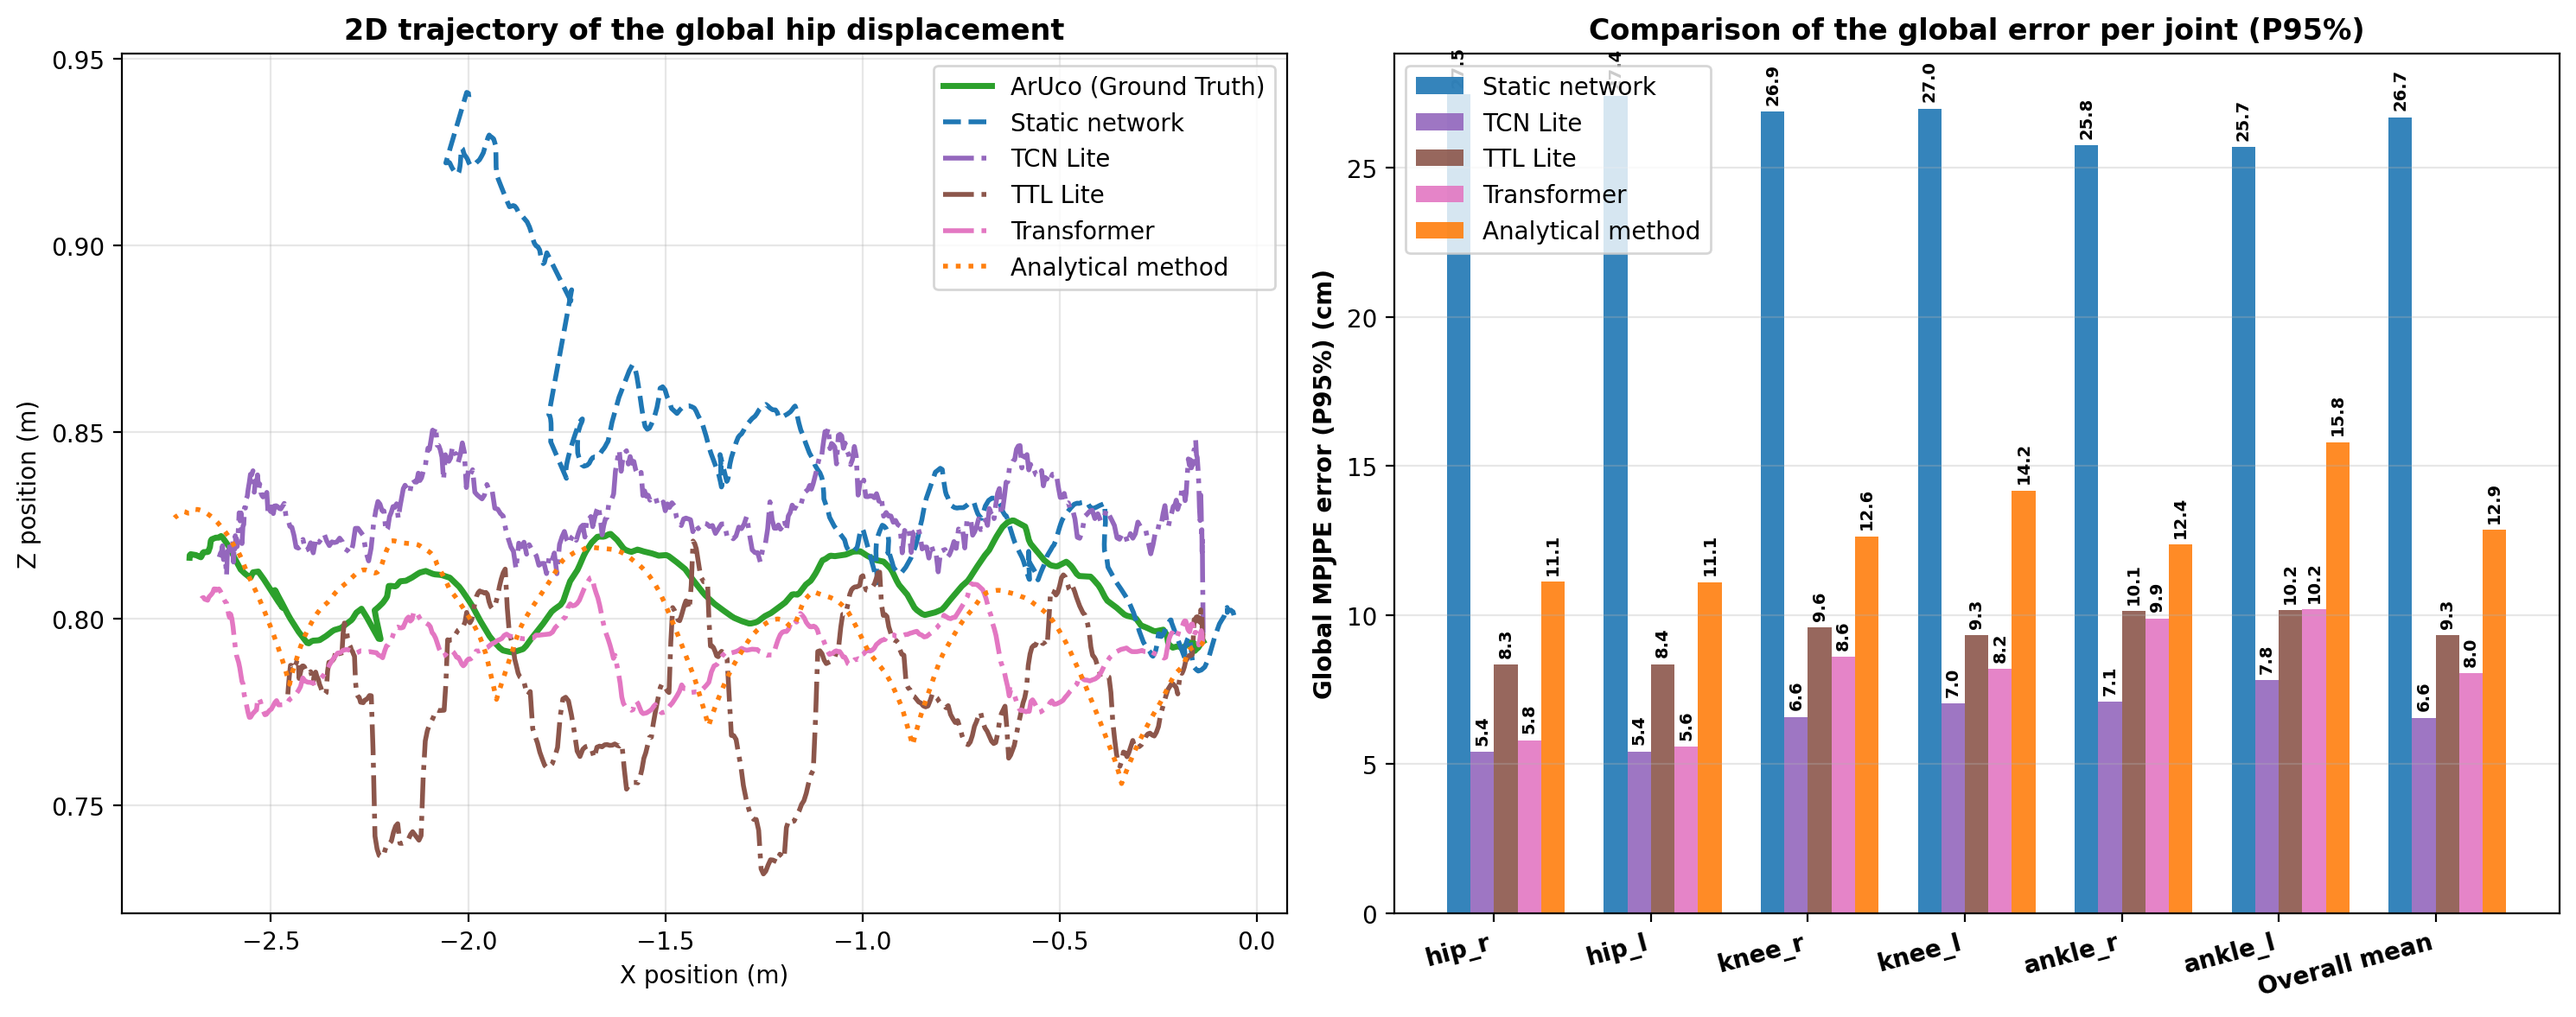
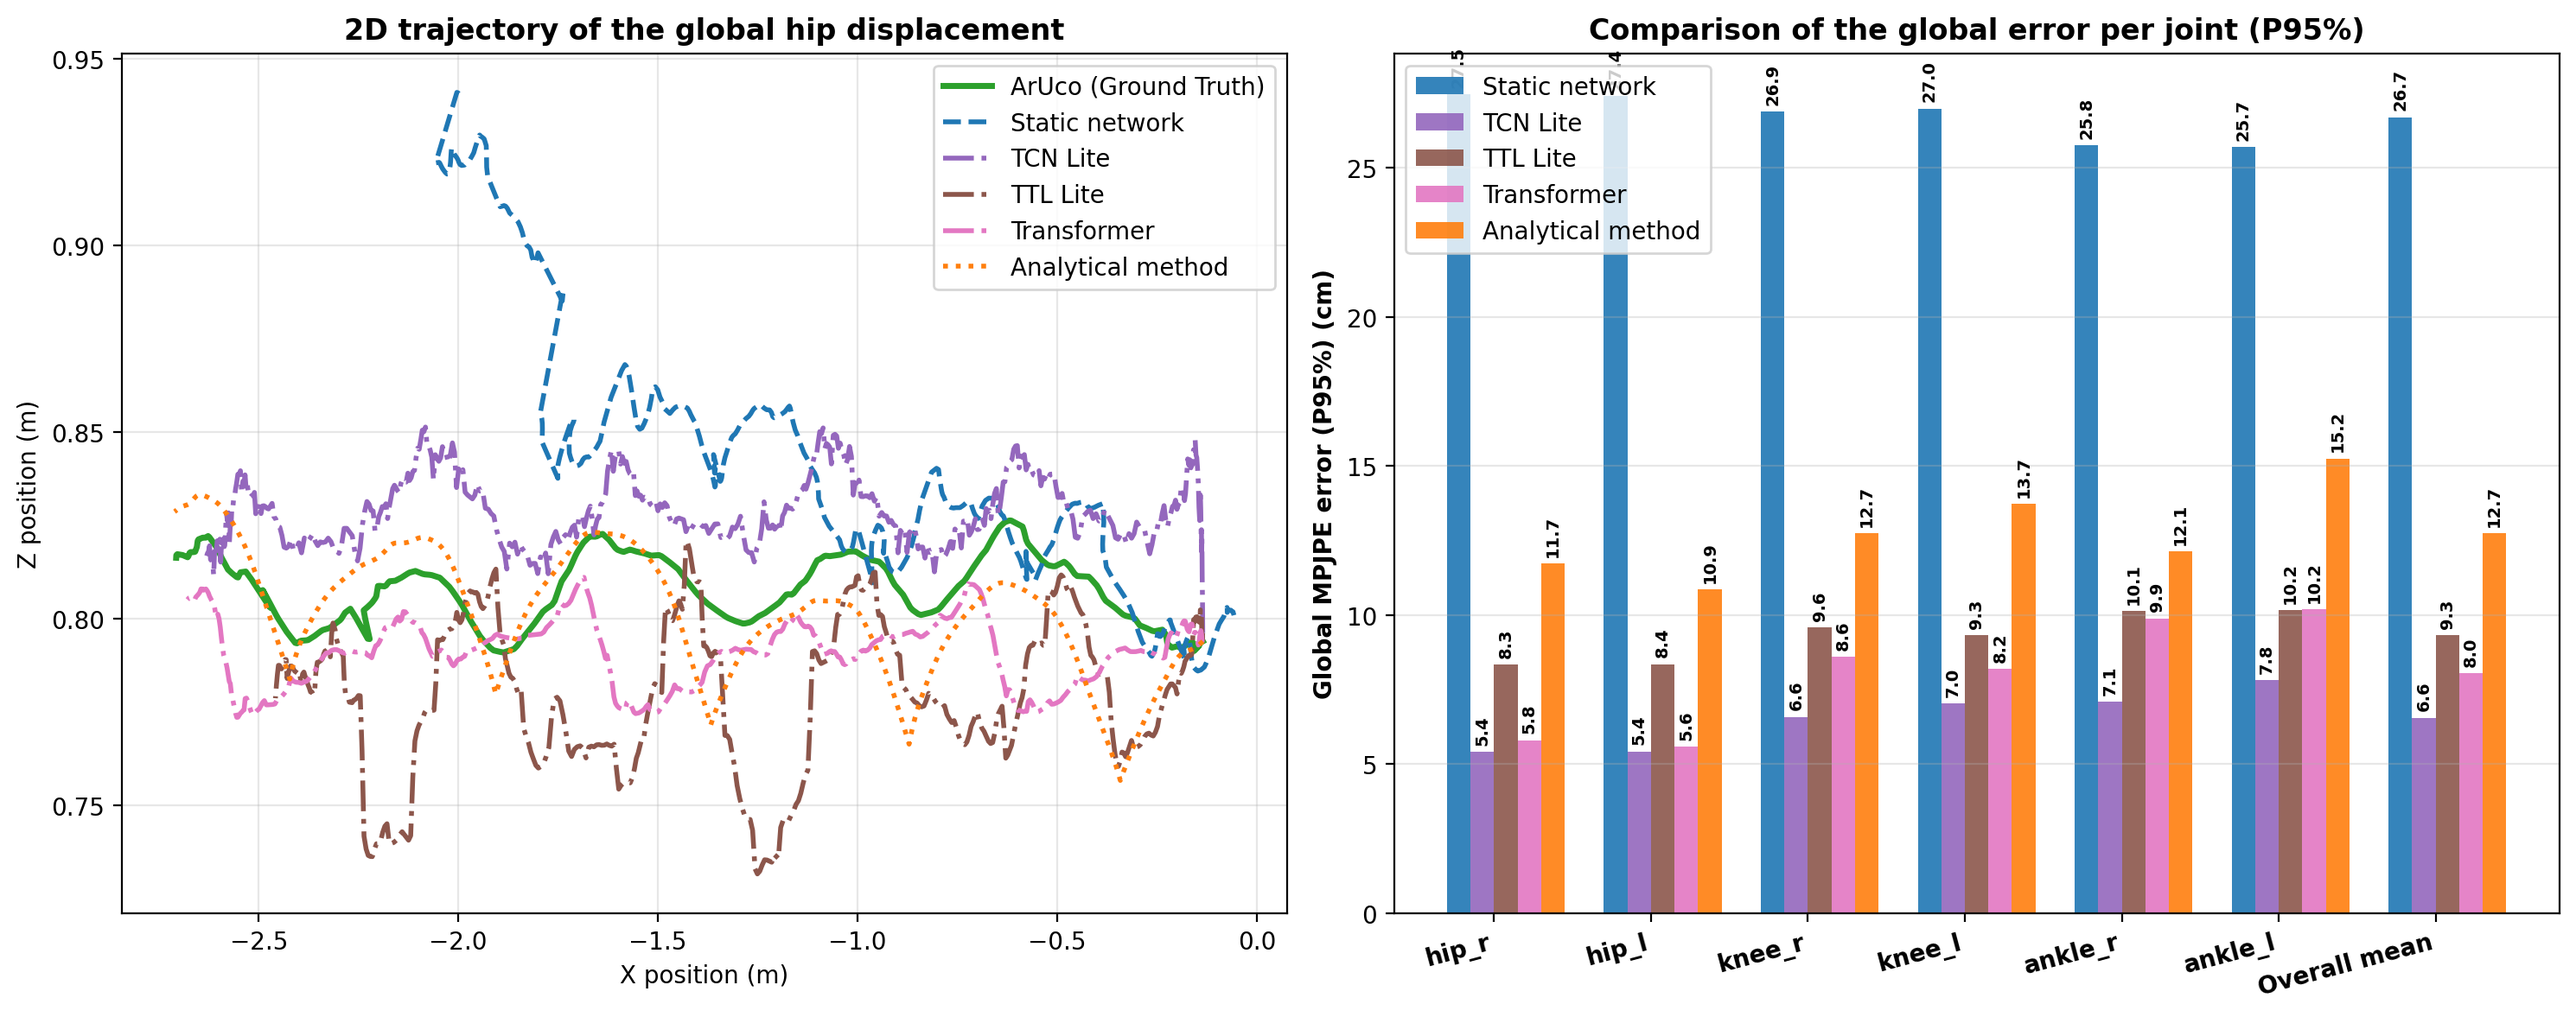
Use Slerp clip 0.5 (grid-search optimum) for the analytical pipeline
A full re-run of the 20,736-configuration grid in experiment_matrix.py
(training split) finds the optimum at the documented configuration except
slerp_clip_min = 0.5 (train 0.1780 m vs 0.1804 m with 0.3; val 0.1670 m,
test 0.1756 m). With slerp_clip_max = 1 - min this fixes the hip Slerp
weight at 0.5 (midpoint of both femurs).

- Set slerp_clip_min/max to 0.5/0.5 in process_all.py, experiment_matrix.py
  (DEFAULT_VALS), evaluate_full_neural_vs_analytical.py,
  generate_manuscript_figures.py and benchmark_timing.py.
- Analytical global MPJPE with the committed checkpoints: 0.1274 m
  (was 0.1286 m). Networks unchanged. New evaluation in results-v5.txt
  (RTX 5070); regenerated comparison GIF/PNG.
- Update docs and reproducibility reference values.

Claude-Session: https://claude.ai/code/session_01GRtPqPCdLHoxMrqgppvtVo

diff --git a/process_all.py b/process_all.py
@@ -354,8 +354,8 @@ def get_orientation(
     mcd_data,
     pca_percentile=5,
     madgwick_gain=0.01,
-    slerp_clip_min=0.3,
-    slerp_clip_max=0.7,
+    slerp_clip_min=0.5,
+    slerp_clip_max=0.5,
     calibration_samples=60,
     fusion_filter="madgwick",
 ) -> dict[str, np.ndarray]:
@@ -565,7 +565,7 @@ def get_orientation(
             # Velocity-based weighting: if rf is still, the weight tends to 0.
             weight = vel_rf / total_vel
 
-        # Clip the weight (0.3 to 0.7) so the hip is never fused 100% with a single femur, avoiding rigidity
+        # Clip the weight to [slerp_clip_min, slerp_clip_max]. The selected 0.5/0.5 (grid-search optimum) fixes it at 0.5: the pelvis is the Slerp midpoint of both femurs
         weight = np.clip(weight, slerp_clip_min, slerp_clip_max)
 
         slerp = Slerp([0, 1], R.concatenate([quats["rf"][i], quats["lf"][i]]))
@@ -643,8 +643,8 @@ def mcd_reconstruction(
     mcd_data: dict[str, np.ndarray],
     pca_percentile=5,
     madgwick_gain=0.01,
-    slerp_clip_min=0.3,
-    slerp_clip_max=0.7,
+    slerp_clip_min=0.5,
+    slerp_clip_max=0.5,
     calibration_samples=60,
     fusion_filter="madgwick",
     pivot_height_threshold=0.01,
@@ -1003,8 +1003,8 @@ def process_files(
     filter_order=6,
     pca_percentile=5,
     madgwick_gain=0.01,
-    slerp_clip_min=0.3,
-    slerp_clip_max=0.7,
+    slerp_clip_min=0.5,
+    slerp_clip_max=0.5,
     calibration_samples=60,
     fusion_filter="madgwick",
     pivot_height_threshold=0.01,

diff --git a/generate_manuscript_figures.py b/generate_manuscript_figures.py
@@ -146,8 +146,8 @@ def run_pipeline_evaluation(use_cache: bool = True):
         filter_order=6,
         pca_percentile=20,
         madgwick_gain=0.02,
-        slerp_clip_min=0.3,
-        slerp_clip_max=0.7,
+        slerp_clip_min=0.5,
+        slerp_clip_max=0.5,
         calibration_samples=100,
         fusion_filter="madgwick",
         pivot_height_threshold=0.005,

diff --git a/evaluate_full_neural_vs_analytical.py b/evaluate_full_neural_vs_analytical.py
@@ -1020,8 +1020,8 @@ def main():
         filter_order=6,
         pca_percentile=20,
         madgwick_gain=0.02,
-        slerp_clip_min=0.3,
-        slerp_clip_max=0.7,
+        slerp_clip_min=0.5,
+        slerp_clip_max=0.5,
         calibration_samples=100,
         fusion_filter="madgwick",
         pivot_height_threshold=0.005,

diff --git a/benchmark_timing.py b/benchmark_timing.py
@@ -81,8 +81,8 @@ ANALYTICAL_PARAMS = dict(
     filter_order=6,
     pca_percentile=20,
     madgwick_gain=0.02,
-    slerp_clip_min=0.3,
-    slerp_clip_max=0.7,
+    slerp_clip_min=0.5,
+    slerp_clip_max=0.5,
     calibration_samples=100,
     fusion_filter="madgwick",
     pivot_height_threshold=0.005,

diff --git a/experiment_matrix.py b/experiment_matrix.py
@@ -90,7 +90,7 @@ DEFAULT_VALS = {
     "filter_order": 6,
     "pca_percentile": 20,
     "madgwick_gain": 0.02,
-    "slerp_clip_min": 0.3,
+    "slerp_clip_min": 0.5,
     "calibration_samples": 100,
     "fusion_filter": "madgwick",
     "pivot_height_threshold": 0.005,

diff --git a/reproducibility/README.md b/reproducibility/README.md
@@ -32,7 +32,7 @@ reproducibility/timing.sh               # 4. execution-time benchmark, run twice
 
 | Step | Output | What it does |
 |---|---|---|
-| 2 | `runs/committed/eval.log` | `evaluate_full_neural_vs_analytical.py` on the five test subjects of `data_split.json`, using the checkpoints in `nn-results/`. Compare with `nn-results/full_neural_vs_analytical/results-v4.txt`. |
+| 2 | `runs/committed/eval.log` | `evaluate_full_neural_vs_analytical.py` on the five test subjects of `data_split.json`, using the checkpoints in `nn-results/`. Compare with `nn-results/full_neural_vs_analytical/results-v5.txt`. |
 | 3 | `runs/seed_<s>/` | For each seed: `train_all.sh` (all five networks, `SEED=<s>`), then the same evaluation. The training logs go to `runs/seed_<s>/nn-results/train_logs/`. Finished seeds are skipped, so an interrupted run can be resumed by running the command again. To choose the seeds, pass them as arguments: `reproducibility/multiseed.sh 5 6 7`. |
 | 3b | stdout, `runs/aggregate.json` | Per-seed values and mean ± SD of the P95 MPJPE, MAE and RMSE (global and pelvis-relative); the improvement over the analytical pipeline; the best network for each seed; and a paired TCN Lite vs. Transformer test. |
 | 4 | `runs/timing/timing_<host>_run{1,2}.{json,log}` | `benchmark_timing.py`: streaming latency per 25-sample window (GPU, all CPU threads, one CPU thread), offline throughput, and analytical-pipeline cost per frame. The JSON also records the hardware and software versions and the checkpoint hashes. |
@@ -52,14 +52,14 @@ These are the values we obtained on two machines. Both used torch 2.15.0+cu132 a
 
 | | TCN Lite | TTL Lite | Transformer | Analytical |
 |---|---|---|---|---|
-| RTX 5070 | 0.0655 m | 0.0931 m | 0.0804 m | 0.1286 m |
-| RTX 4060 | 0.0656 m | 0.0931 m | 0.0804 m | 0.1286 m |
+| RTX 5070 | 0.0655 m | 0.0931 m | 0.0804 m | 0.1274 m |
+| RTX 4060 | 0.0656 m | 0.0931 m | 0.0804 m | 0.1274 m |
 
 **Retrained networks (step 3), global P95 MPJPE, mean ± SD (10 runs: 5 seeds × 2 machines):**
 
 | TCN Lite | TTL Lite | Transformer | Analytical |
 |---|---|---|---|
-| 0.094 ± 0.005 m | 0.095 ± 0.009 m | 0.080 ± 0.005 m (8 runs) | 0.1286 m |
+| 0.094 ± 0.005 m | 0.095 ± 0.009 m | 0.080 ± 0.005 m (8 runs) | 0.1274 m |
 
 - **Training is not bit-reproducible.** The code does not enable `torch.use_deterministic_algorithms`, and it trains with mixed precision on GPU. The same seed on two different GPUs gives slightly different weights.
 - **Expect the same spread, not the same digits.** The seed changes global MPJPE by about ±5 mm. The GPU model changes it much less.

diff --git a/docs/REPRODUCIBILITY.md b/docs/REPRODUCIBILITY.md
@@ -143,6 +143,11 @@ Full evaluation in `nn-results/full_neural_vs_analytical/results-v4.txt`; the pr
 
 Consequence for the paper: the static network now has the **best pelvis-relative MPJPE** (0.034 m vs 0.036 m for TCN Lite), but it is still much worse in the global frame (0.27 m vs 0.066 m). `v2_manuscript/template.tex` and the figures in `v2_manuscript/figures/` are already updated with these values.
 
+## Analytical pipeline: Slerp clip 0.5 (2026-11-15)
+
+A full re-run of the 20,736-configuration grid (`experiment_matrix.py`, training split) found the optimum at the previously documented values except `slerp_clip_min` = 0.5 (training centroid error 0.1780 m, versus 0.1804 m with 0.3; validation 0.1670 m, test 0.1756 m). Because `slerp_clip_max` = 1 − `slerp_clip_min`, this fixes the hip Slerp weight at 0.5: the pelvis is the Slerp midpoint of the two femurs. All scripts now use 0.5/0.5. The networks are unaffected; the analytical pipeline changes from 0.1286 to 0.1274 m global MPJPE (relative MPJPE 0.0586 → 0.0587 m). Full evaluation with the committed checkpoints on an RTX 5070: `nn-results/full_neural_vs_analytical/results-v5.txt` (results-v4.txt used 0.3).
+
+
 ## Evaluation
 
 ```bash

diff --git a/docs/CODE_GUIDE.md b/docs/CODE_GUIDE.md
@@ -116,7 +116,7 @@ flowchart TD
   8. Height threshold for the pivot switch (`PIVOT_HEIGHT_THRESHOLDS`: [0.005, 0.01, 0.015] m).
   9. Angular-velocity threshold for the *swing override* (`SWING_VELOCITY_THRESHOLDS`: [0.3, 0.5, 0.7] rad/s).
 * **Size:** the full Cartesian product, 4 × 3 × 4 × 3 × 2 × 4 × 2 × 3 × 3 = 20,736 combinations. The EKF does not use the Madgwick gain, so the 3 gain values give identical EKF results and only 13,824 configurations are distinct.
-* **Selected configuration** (`DEFAULT_VALS`): 9 Hz, order 6, 20th percentile, Madgwick gain 0.02, Slerp clip 0.3, 100 calibration samples, Madgwick, pivot threshold 0.005 m, swing threshold 0.3 rad/s.
+* **Selected configuration** (`DEFAULT_VALS`): 9 Hz, order 6, 20th percentile, Madgwick gain 0.02, Slerp clip 0.5 (fixed midpoint), 100 calibration samples, Madgwick, pivot threshold 0.005 m, swing threshold 0.3 rad/s.
 * **Output:** runs the combinations with parallel processing (`multiprocessing.Pool`) and saves the results to `Results/experiment_matrix/experiment_matrix.csv`.
 
 #### 📄 `analyze_results.py`
